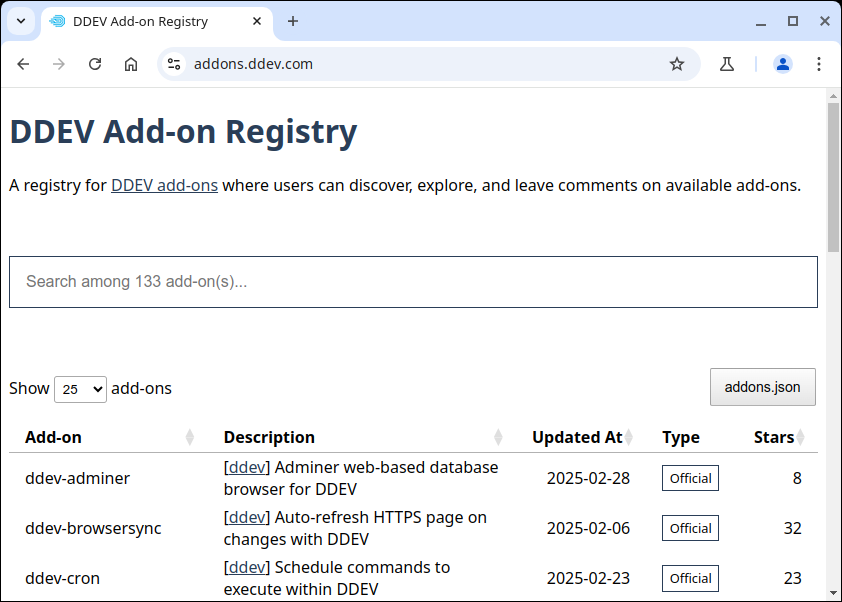
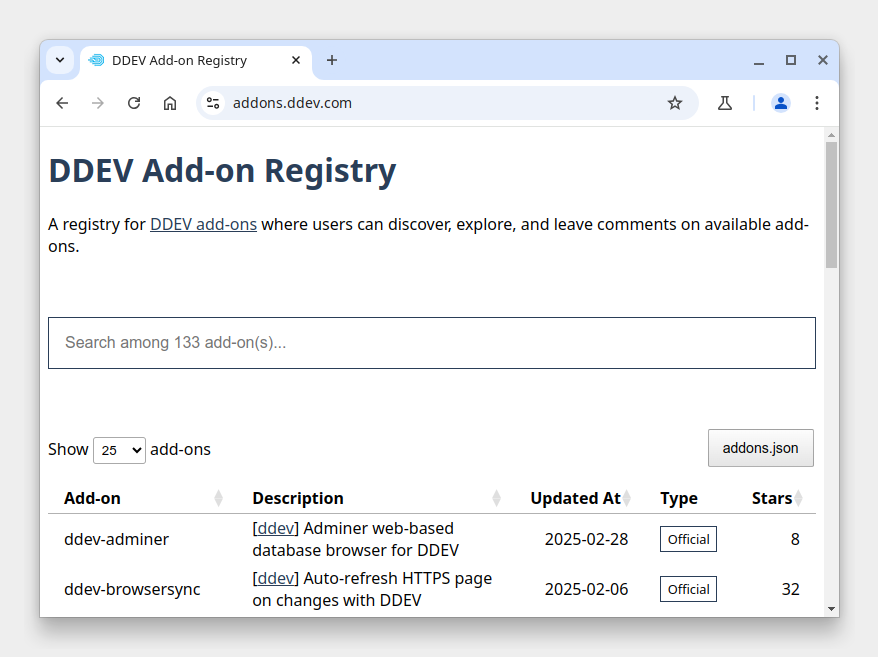
Replace header image

Changed region(s): [[0.0, 0.0, 1.0, 1.0], [0.8955, 0.8073, 0.9264, 0.8372]]

diff --git a/src/content/blog/ddev-addon-registry-introduction.md b/src/content/blog/ddev-addon-registry-introduction.md
@@ -1,22 +1,19 @@
 ---
 title: "DDEV Add-on Registry Introduction"
-pubDate: 2025-03-04
-#modifiedDate: 2025-03-04
+pubDate: 2025-03-03
+#modifiedDate: 2025-03-03
 summary: Introducing addons.ddev.com website
 author: Stas Zhuk
 featureImage:
-  src: /img/blog/2025/02/developer-laptops.jpg
-  alt: Laptops showing opened GitHub repositories
-  credit: "ChatGPT: many laptops arranged in a futuristic workspace, each showing different GitHub repositories, glowing screens displaying repository names and code"
+  src: /img/blog/2025/03/ddev-addon-registry.png
+  alt: DDEV Add-on Registry website
 categories:
   - Announcements
 ---
 
 ## Welcome to the DDEV Add-on Registry
 
-We're excited to introduce [**addons.ddev.com**](https://addons.ddev.com), a central hub where the community can explore, contribute to, and enhance the collection of DDEV add-ons.
-
-![DDEV Add-on Registry](/img/blog/2025/03/ddev-addon-registry.png)
+We're excited to introduce <https://addons.ddev.com>, a central hub where the community can explore, contribute to, and enhance the collection of DDEV add-ons.
 
 The source code is available and your contributions are encouraged at <https://github.com/ddev/addon-registry>.
 
